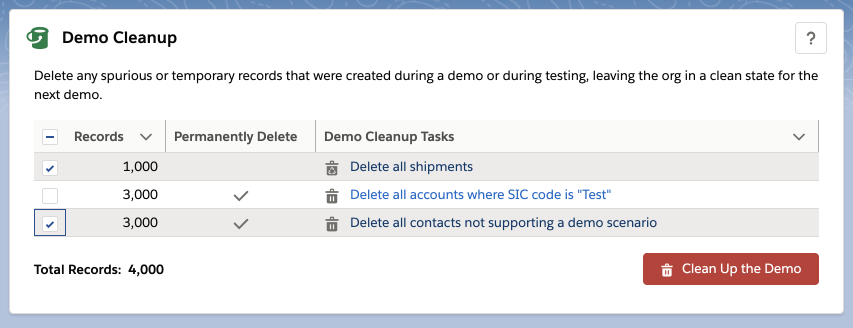
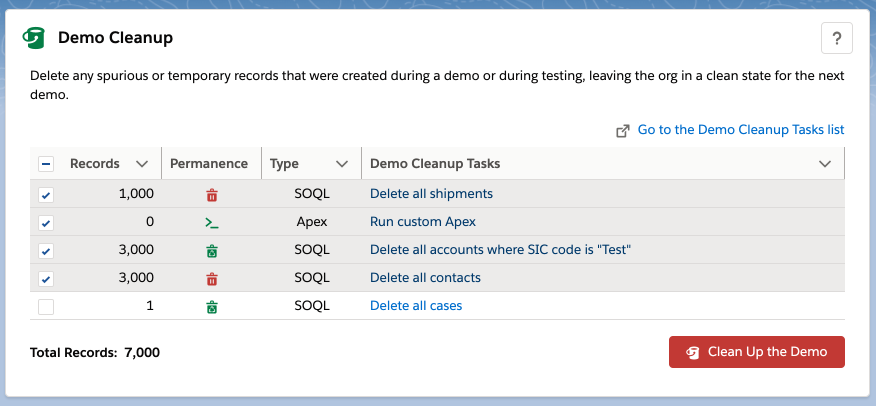
Added names and offending fields to error records, code cleanup, minor fixes

diff --git a/force-app/main/default/lwc/demoCleanup/demoCleanup.js b/force-app/main/default/lwc/demoCleanup/demoCleanup.js
@@ -60,9 +60,7 @@ export default class DemoCleanup extends NavigationMixin(LightningElement) {
 			initialWidth: 200,
 			iconName: 'standard:record',
 			cellAttributes: {
-				alignment: 'left',
-				iconName: 'utility:new_window',
-				iconAlternativeText: 'Go To Record'
+				alignment: 'left'
 			},
 			typeAttributes: {
 				label: { fieldName: 'name' },
@@ -157,6 +155,7 @@ export default class DemoCleanup extends NavigationMixin(LightningElement) {
 					itemRecordType: task.itemRecordTypeName === 'Apex Cleanup Item' ? 'Apex' : 'SOQL',
 					itemApexClassName: task.itemApexClassName,
 					itemObjectApiName: task.itemObjectApiName,
+					itemNameField: task.itemNameField,
 					itemWhereClause: task.itemWhereClause === undefined ? null : task.itemWhereClause,
 					itemDescription: task.itemDescription,
 					itemPermanentlyDelete: task.itemPermanentlyDelete,
@@ -170,7 +169,7 @@ export default class DemoCleanup extends NavigationMixin(LightningElement) {
 					itemIconTooltip: task.itemPermanentlyDelete
 						? 'Records will be permanently deleted'
 						: 'Deleted records will be kept in recycle bin',
-					itemCount: task.itemCount,
+					itemCount: task.itemCount === null || task.itemCount === undefined ? 0 : task.itemCount,
 					itemQueryError: task.itemQueryError,
 					itemLink: '/lightning/r/Demo_Cleanup_Task__c/' + task.itemId + '/view',
 					itemRunningTotal: 0,
@@ -239,6 +238,12 @@ export default class DemoCleanup extends NavigationMixin(LightningElement) {
 
 	handleCancelButton(event) {
 		this.modalVisible = false;
+		this.dispatchEvent(
+			new ShowToastEvent({
+				variant: 'success',
+				message: 'No Demo Cleanup Tasks were executed.'
+			})
+		);
 	}
 
 	handleCleanupButton(event) {
@@ -253,6 +258,7 @@ export default class DemoCleanup extends NavigationMixin(LightningElement) {
 					cleanup({
 						taskId: item.itemId,
 						objectApiName: item.itemObjectApiName,
+						nameField: item.itemNameField,
 						whereClause: item.itemWhereClause,
 						permanentlyDelete: item.itemPermanentlyDelete
 					}).catch((error) => {
@@ -269,6 +275,7 @@ export default class DemoCleanup extends NavigationMixin(LightningElement) {
 							result.forEach((toast) => {
 								this.dispatchEvent(
 									new ShowToastEvent({
+										title: toast.toastTitle,
 										mode: toast.toastMode,
 										variant: toast.toastVariant,
 										message: toast.toastMessage

diff --git a/.sfdx/typings/lwc/apex/DemoCleanup.d.ts b/.sfdx/typings/lwc/apex/DemoCleanup.d.ts
@@ -2,7 +2,7 @@ declare module "@salesforce/apex/DemoCleanup.getCleanupTasks" {
   export default function getCleanupTasks(): Promise<any>;
 }
 declare module "@salesforce/apex/DemoCleanup.cleanup" {
-  export default function cleanup(param: {taskId: any, objectApiName: any, whereClause: any, permanentlyDelete: any}): Promise<any>;
+  export default function cleanup(param: {taskId: any, objectApiName: any, nameField: any, whereClause: any, permanentlyDelete: any}): Promise<any>;
 }
 declare module "@salesforce/apex/DemoCleanup.executeApex" {
   export default function executeApex(param: {taskId: any, apexClassName: any, permanentlyDelete: any}): Promise<any>;

diff --git a/README.md b/README.md
@@ -1,9 +1,9 @@
-![Creative Commons License](https://img.shields.io/badge/license-Creative%20Commons-success) ![In Development](https://img.shields.io/badge/status-Released-success) ![Code Coverage](https://img.shields.io/badge/code%20coverage-90%25-success)
+![Creative Commons License](https://img.shields.io/badge/license-Creative%20Commons-success) ![In Development](https://img.shields.io/badge/status-Released-success) ![Code Coverage](https://img.shields.io/badge/code%20coverage-93%25-success)
 
 
 <h1 align="center">DEMO CLEANUP</h1>
 <p align="center">
-This package contains a Lightning component and other support to help cleanup demos between demo presentations, dry runs, and tests.
+This package contains a Lightning component and other support to help clean up demos between demo presentations, dry runs, and tests.
 </p>
 
 ![Demo Cleanup](/images/Demo_Cleanup.png)
@@ -14,22 +14,21 @@ This package contains a Lightning component and other support to help cleanup de
 
 I often find myself in a situation where I need to dust off a demo long after I originally presented it and have forgotten if certain records are required for the demo, were generated during my testing, or were created during the last presentation. This makes getting the demo in a clean state for the next presentation more time-consuming and risky.
 
-This component simply executes a number of demo cleanup tasks based on criteria specified in a SOQL WHERE clause.  Optionally, the component will follow up the deletions with an invocation of a custom Apex class which can handle any other cleanup operations that do not involve simple deletions.
+This component simply executes a number of demo cleanup tasks based either on criteria specified in a SOQL WHERE clause or through custom Apex actions.
 
 ## Installation and Setup
 
 Read the disclaimer below and click on the **Install the Package** link. This will install all the components, objects, and other metadata to your org.
 
-Assign the `Demo Cleanup` permission set to the System Administrator or anyone else who needs to use the component.
+Assign the `Demo Cleanup` permission set to anyone else who needs to use the component.
 
 Once the package is deployed, you will need to create a Lightning app page with the Lightning App Builder and drag the `Demo Cleanup` custom component on the page where you would like to place it.
 
-Next, open the App Launcher and click on the `Demo Cleanup Tasks` tab, click the `New` button and supply an object API name, a description, and an optional SOQL WHERE clause which specifies which records of that object should be deleted. For each task, you can also choose to permanently the records, or keep them in the recycle bin. Repeat for all of the objects whose records you would like to delete.
+On the `Demo Cleanup Tasks` tab, click the `New` button and choose which kind of cleanup task you wish to create:
+-SOQL cleanup tasks use a SOQL WHERE clause to determine which records of an object to delete. Supply an object API name, a description, and an optional SOQL WHERE clause which specifies which records of that object should be deleted. For each task, you can also choose to permanently the records, or keep them in the recycle bin. Repeat for all of the objects whose records you would like to delete.
+-Apex cleanup tasks allow the Apex developer to create arbitrary code to perform cleanup tasks that SOQL cannot handle by itselt. For these kinds of tasks, you need to enter the name of an Apex class that implements the `DemoCleanupApexItem` interface, and a description.
 
 ![Demo Cleanup Task](/images/Demo_Cleanup_Task.png)
-
-If you are familiar with [Apex](https://developer.salesforce.com/docs/atlas.en-us.apexcode.meta/apexcode/apex_intro_what_is_apex.htm) you can modify the supplied `DemoCleanupCustomApex.runCustomApex` method to perform any other operations that can't be done with simple record deletions, such as activating or deactivating users.
-
 
 ## How to Deploy This Package to Your Org
 
